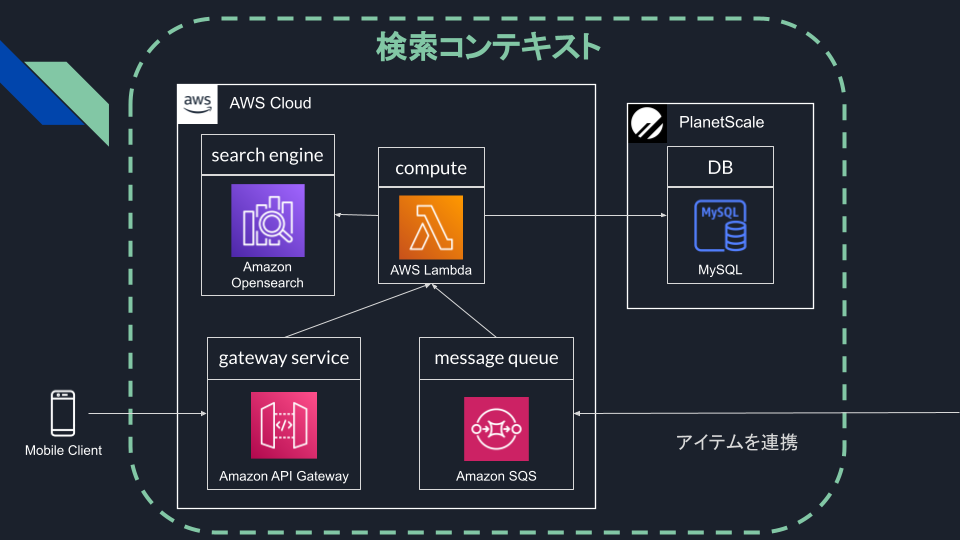
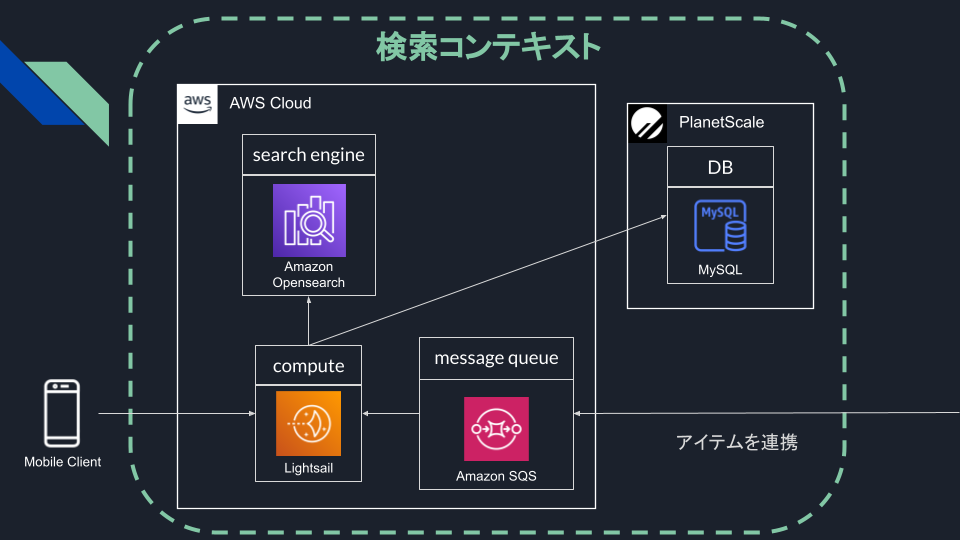
lightsail上で動作するように改修

diff --git a/app/port/adapter/messaging/sqs/sqs_message_consumer.py b/app/port/adapter/messaging/sqs/sqs_message_consumer.py
@@ -1,31 +1,63 @@
 import json
+import threading
+import time
 from typing import NoReturn
+
+from injector import inject, singleton
+from slf4py import set_logger
 
 from di import DIManager
 from exception import SystemException
-from port.adapter.messaging import ItemCreatedListener, ExchangeListener, MessageConsumer
+from port.adapter.messaging import ItemCreatedListener
+from port.adapter.messaging.sqs import SQSClient
 
 
+@set_logger
+@singleton
 class SQSMessageConsumer:
-    def __init__(self):
+    @inject
+    def __init__(self, sqs_client: SQSClient):
         self.__exchange_listeners = [
             DIManager.get(ItemCreatedListener)
         ]
+        self.__sqs_client = sqs_client
+        self.__is_running = True
+
+    def start_receiving(self) -> NoReturn:
+        self.log.info('start receiving message!')
+
+        def run() -> NoReturn:
+            while self.__is_running:
+                self.log.info('receive message ...')
+                messages = self.__sqs_client.receive_messages()
+                if messages:
+                    self.log.info('dispatch message!')
+                    for message in messages:
+                        self.dispatch_message(message['Body'])
+                        self.__sqs_client.delete_message(message)
+                        self.log.info('message is subscribed!')
+                else:
+                    self.log.info('no message')
+                    time.sleep(5)
+
+        receiver_thread = threading.Thread(target=run)
+        receiver_thread.start()
+
+    def stop_receiving(self) -> NoReturn:
+        self.log.info('stop receiving')
+        self.__is_running = False
 
     def dispatch_message(self, message: str) -> NoReturn:
         producer_name = self.__producer_name_of(message)
         event_type = self.__event_type_of(message)
         body = self.__body_of(message)
 
-        for listener in self.exchange_listeners():
+        for listener in self.__exchange_listeners:
             if listener.producer_name == producer_name and listener.listens_to(event_type):
                 try:
                     listener.filtered_dispatch(event_type, body)
                 except SystemException as e:
                     e.logging()
-
-    def exchange_listeners(self) -> list[ExchangeListener]:
-        return self.__exchange_listeners
 
     def __producer_name_of(self, message: str) -> str:
         return eval(message)['producer_name']

diff --git a/app/port/adapter/messaging/sqs/sqs_client.py b/app/port/adapter/messaging/sqs/sqs_client.py
@@ -1,0 +1,27 @@
+import os
+from typing import NoReturn
+
+import boto3
+
+
+class SQSClient:
+    def __init__(self):
+        self.__client = boto3.client('sqs',
+                                     region_name=os.getenv('SQS_REGION_NAME'),
+                                     endpoint_url=os.getenv('SQS_ENDPOINT_URL'))
+        self.__queue_url = os.getenv('SQS_QUEUE_URL')
+        self.__receive_params = {
+            'QueueUrl': self.__queue_url,
+            'AttributeNames': ['All'],
+            'MessageAttributeNames': ['All'],
+            'MaxNumberOfMessages': 1,
+            'VisibilityTimeout': 300,
+            'WaitTimeSeconds': 10,
+        }
+
+    def receive_messages(self) -> list[dict]:
+        messages: dict = self.__client.receive_message(**self.__receive_params)
+        return messages.get('Messages', [])
+
+    def delete_message(self, a_message: dict) -> NoReturn:
+        self.__client.delete_message(QueueUrl=self.__queue_url, ReceiptHandle=a_message["ReceiptHandle"])

diff --git a/app/start_app.py b/app/start_app.py
@@ -2,7 +2,7 @@ from fastapi import FastAPI
 from mangum import Mangum
 from mangum.types import LambdaEvent, LambdaContext
 
-from config import exception_handlers
+from config import exception_handlers, event_handlers
 from exception import SystemException
 from port.adapter.messaging.sqs import SQSMessageConsumer
 from port.adapter.resource.category import category_resource
@@ -13,6 +13,9 @@ from port.adapter.resource.item import item_resource
 app = FastAPI(title="Greeedy")
 
 app.add_exception_handler(SystemException, exception_handlers.system_exception_handler)
+
+app.add_event_handler('startup', event_handlers.startup_handler)
+app.add_event_handler('shutdown', event_handlers.shutdown_handler)
 
 app.include_router(category_resource.router)
 app.include_router(health_resource.router)

diff --git a/app/config/event_handlers.py b/app/config/event_handlers.py
@@ -1,0 +1,17 @@
+from typing import NoReturn
+
+from di import DIManager
+from port.adapter.messaging.sqs import SQSMessageConsumer
+
+
+message_consumer = DIManager.get(SQSMessageConsumer)
+
+
+async def startup_handler() -> NoReturn:
+    # TODO : DIさせる
+    # TODO : NotificationPublisherTimer.start()
+    message_consumer.start_receiving()
+
+
+async def shutdown_handler() -> NoReturn:
+    message_consumer.stop_receiving()

diff --git a/app/port/adapter/messaging/__init__.py b/app/port/adapter/messaging/__init__.py
@@ -1,4 +1,3 @@
 from .exchange_listener import ExchangeListener
-from .message_consumer import MessageConsumer
 
 from .item_created_listener import ItemCreatedListener

diff --git a/app/port/adapter/messaging/sqs/__init__.py b/app/port/adapter/messaging/sqs/__init__.py
@@ -1,1 +1,2 @@
+from .sqs_client import SQSClient
 from .sqs_message_consumer import SQSMessageConsumer

diff --git a/README.md b/README.md
@@ -9,11 +9,6 @@
 
 ![](./doc/システム構成図.png)
 
- - [Amazon ECR](https://ap-northeast-1.console.aws.amazon.com/ecr/repositories/private/684886458640/greeedy?region=ap-northeast-1)
- - [API Gateway](https://ap-northeast-1.console.aws.amazon.com/apigateway/home?region=ap-northeast-1#/apis/nagpu8j4w7/resources)
- - [lambda-greeedy - Lambda](https://ap-northeast-1.console.aws.amazon.com/lambda/home?region=ap-northeast-1#/functions/lambda-greeedy?tab=code)
- - [Amazon SQS](https://ap-northeast-1.console.aws.amazon.com/sqs/v2/home?region=ap-northeast-1#/queues/https%3A%2F%2Fsqs.ap-northeast-1.amazonaws.com%2F684886458640%2Fgreeedy-queue)
-
 </details>
 
 <details><summary>アーキテクチャとパッケージ構成</summary>
@@ -62,10 +57,6 @@ $ mysql -h 127.0.0.1 -P 3306 -u user -p
 ```
 
  - [Greeedy API - Swagger UI](http://0.0.0.0:8000/docs)
- - [ElasticMQの管理画面](http://0.0.0.0:9325/)
- - [Opensearch](http://0.0.0.0:9200)
- - [Opensearch - dashbord]()
- - [MySQL]()
 
 </details>
 
@@ -73,44 +64,50 @@ $ mysql -h 127.0.0.1 -P 3306 -u user -p
 
 あらかじめ「コンテナの起動方法」に従ってコンテナを起動してください。起動したら、別ターミナルで下記を実行します。
 ```bash
-# キューを作成
-$ aws sqs create-queue --queue-name greeedy-queue --endpoint-url http://localhost:9324
-
 # キューの一覧を表示
-$ aws sqs list-queues --endpoint-url http://localhost:9324
+$ aws sqs list-queues --endpoint-url http://localhost:4566
 
 # メッセージを作成
 $ aws sqs send-message \
-    --queue-url http://localhost:9324/000000000000/greeedy-queue \
-    --endpoint-url http://localhost:9324 \
+    --queue-url http://localhost:4566/000000000000/greeedy-queue \
+    --endpoint-url http://localhost:4566 \
     --message-body '{
-  "url": "https://www.dholic.co.jp/Nshopping/GoodView_Item.asp?Gserial=1355755", 
-  "options": {"gender": "WOMEN", "brand_name": "DHOLIC"}
+  "producer_name": "epic-bot",
+  "event_type": "epic-scraper.ItemCreated.1",
+  "body": {
+    "name": "ホゲホゲテスト",
+    "brand_name": "DHOLIC",
+    "price": 100,
+    "description": "aaaaaaaaaaaaaaaaaaa",
+    "gender": "WOMEN",
+    "images": [
+      "https://www.dzimg.com/Dahong/202204/1365750_20548339_k4.jpg",
+      "https://www.dzimg.com/Dahong/202204/1365750_20548340_k4.jpg",
+      "https://www.dzimg.com/Dahong/202204/1365750_20548341_k4.jpg",
+      "https://www.dzimg.com/Dahong/202204/1365750_20548342_k4.jpg",
+      "https://www.dzimg.com/Dahong/202204/1365750_20548343_k4.jpg",
+      "https://www.dzimg.com/Dahong/202204/1365750_20548344_k4.jpg",
+      "https://www.dzimg.com/Dahong/202204/1365750_20548345_k4.jpg",
+      "https://www.dzimg.com/Dahong/202204/1365750_20548346_k4.jpg",
+      "https://www.dzimg.com/Dahong/202204/1365750_20548347_k4.jpg",
+      "https://www.dzimg.com/Dahong/202204/1365750_20548348_k4.jpg",
+      "https://www.dzimg.com/Dahong/202204/1365750_20548349_k4.jpg",
+      "https://www.dzimg.com/Dahong/202204/1365750_20548350_k4.jpg",
+      "https://www.dzimg.com/Dahong/202204/1365750_20548359_k4.jpg"
+    ],
+    "url": "https://www.dholic.co.jp/product/goodview_item.asp?gserial=1365750",
+    "meta": {
+      "keywords":"キーワード",
+      "description": "説明文"
+    }
+  }
 }'
 
 # キューイングされたメッセージを表示
 $ aws sqs receive-message \
-    --queue-url http://localhost:9324/000000000000/to-scrape-queue \
-    --endpoint-url http://localhost:9324
-
-# メッセージを削除
-$ aws sqs delete-message \
-    --queue-url http://localhost:9324/000000000000/to-scrape-queue \
-    --receipt-handle {ReceiptHandleを指定} \
-    --endpoint-url http://localhost:9324
-
-# キューを削除
-$ aws sqs delete-queue \
-    --queue-url http://localhost:9324/000000000000/greeedy-queue \
-    --endpoint-url http://localhost:9324
-
-# 購読する
-$ curl -XPOST "http://localhost:9000/2015-03-31/functions/function/invocations" -d '
-{"Records": [{"body": "{\"producer_name\":\"epic-bot\", \"event_type\":\"epic-scraper.ItemCreated.1\", \"body\": {\"name\":\"ホゲホゲテスト\", \"brand_name\":\"DHOLIC\", \"price\": 100, \"description\":\"aaaaaaaaaaaaaaaaaaa\", \"gender\":\"WOMEN\", \"images\": [\"https://www.dzimg.com/Dahong/202204/1365750_20548339_k4.jpg\", \"https://www.dzimg.com/Dahong/202204/1365750_20548340_k4.jpg\", \"https://www.dzimg.com/Dahong/202204/1365750_20548341_k4.jpg\", \"https://www.dzimg.com/Dahong/202204/1365750_20548342_k4.jpg\", \"https://www.dzimg.com/Dahong/202204/1365750_20548343_k4.jpg\", \"https://www.dzimg.com/Dahong/202204/1365750_20548344_k4.jpg\", \"https://www.dzimg.com/Dahong/202204/1365750_20548345_k4.jpg\", \"https://www.dzimg.com/Dahong/202204/1365750_20548346_k4.jpg\", \"https://www.dzimg.com/Dahong/202204/1365750_20548347_k4.jpg\", \"https://www.dzimg.com/Dahong/202204/1365750_20548348_k4.jpg\", \"https://www.dzimg.com/Dahong/202204/1365750_20548349_k4.jpg\", \"https://www.dzimg.com/Dahong/202204/1365750_20548350_k4.jpg\", \"https://www.dzimg.com/Dahong/202204/1365750_20548359_k4.jpg\"], \"url\": \"https://www.dholic.co.jp/product/goodview_item.asp?gserial=1365750\", \"meta\": {\"keywords\":\"キーワード\", \"description\": \"説明文\"}}}"}]}
-'
+    --queue-url http://localhost:4566/000000000000/greeedy-queue \
+    --endpoint-url http://localhost:4566
 ```
-
- - [ElasticMQの管理画面](http://0.0.0.0:9325/)
 
 </details>
 
@@ -125,7 +122,6 @@ $ pytest -v .
 <details><summary>デプロイ手順</summary>
 
 ```bash
-# Amazon ECRにDockerイメージをプッシュ
-$ sh build_and_push.sh lambda-greeedy
+sh build_and_push.sh taiyou24 greeedy-lightsail ./app/Dockerfile
 ```
 </details>
